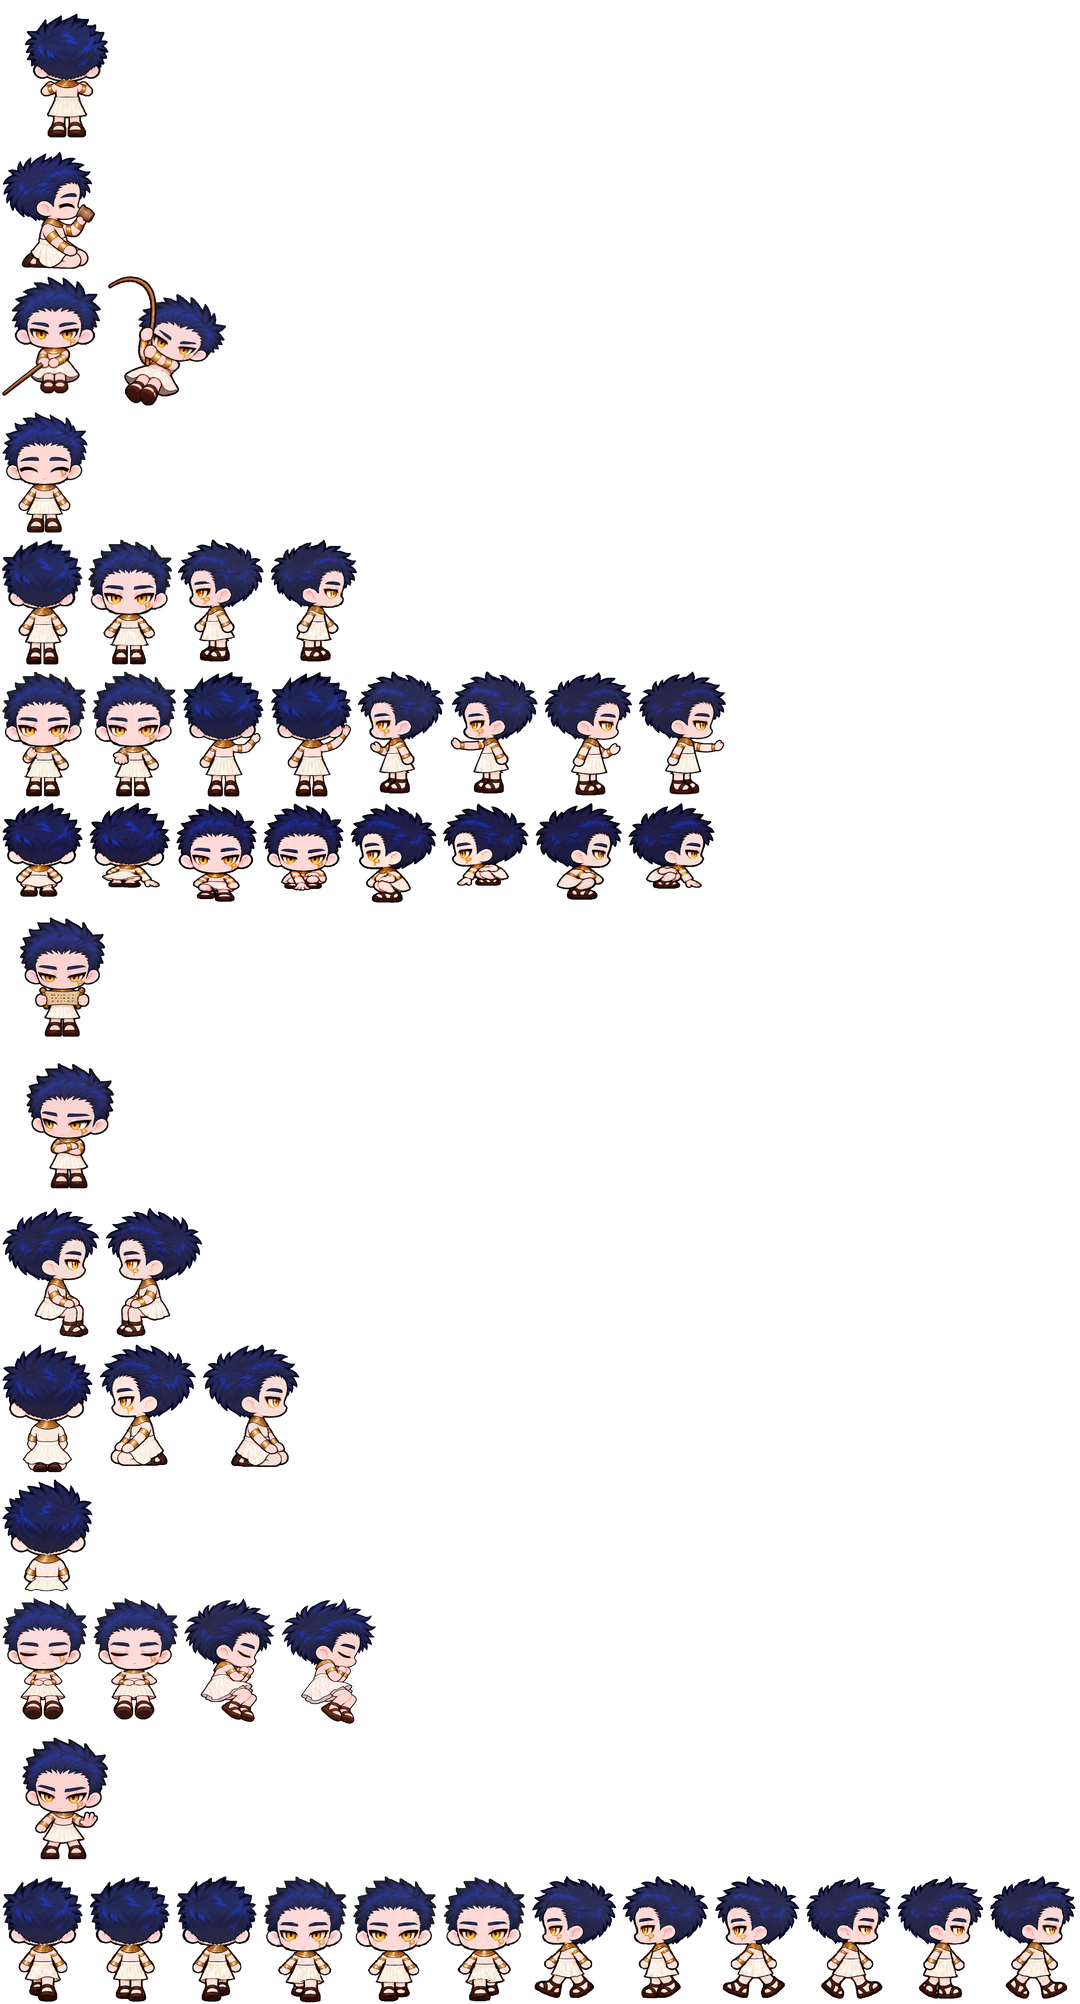
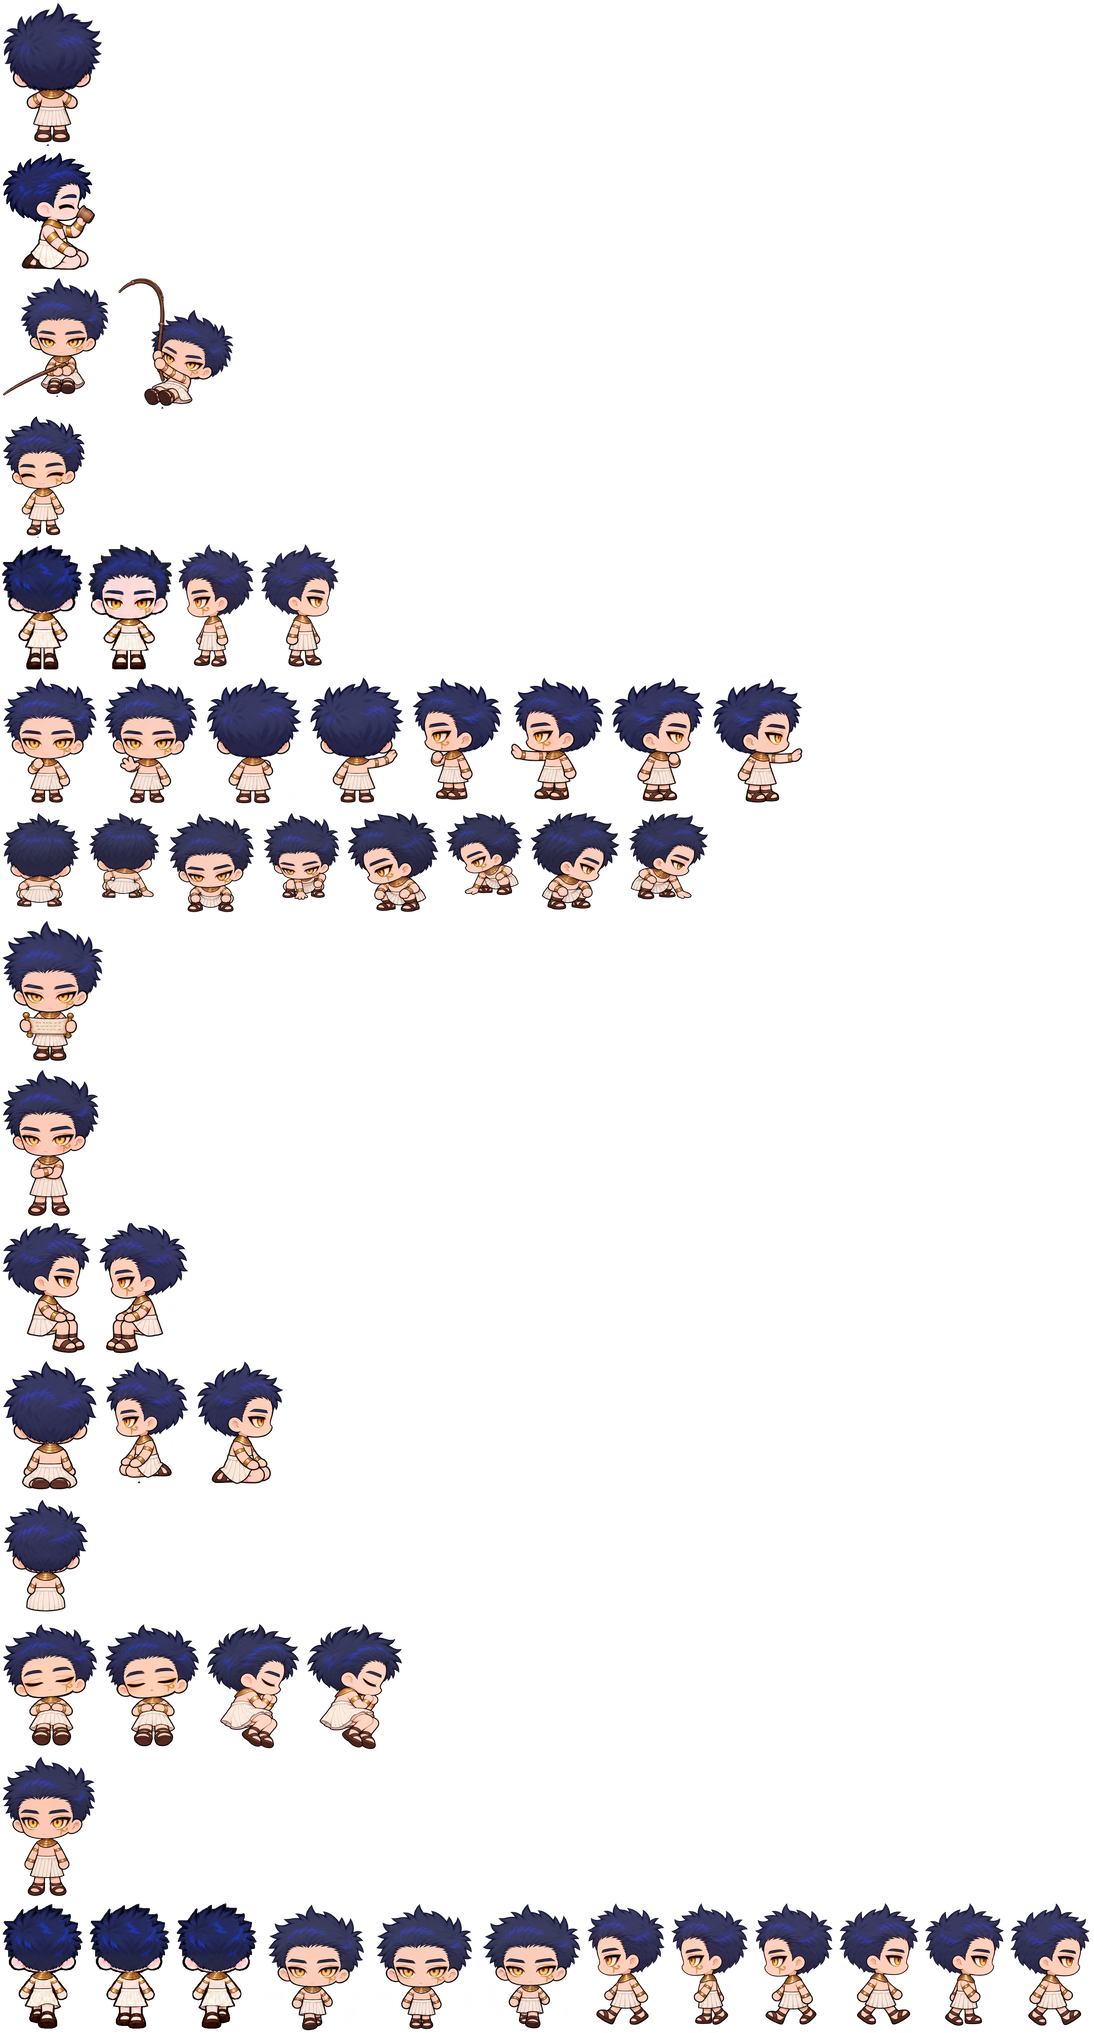
release 0.9.76 (main 7986d9f52912480c1d165be322ef2b92b747fa2f) · 호루스 스프라이트 적용, 3종 테스트 미실행

Changed region(s): [[0.0, 0.0, 1.0, 1.0]]

diff --git a/src/core/settings.js b/src/core/settings.js
@@ -2,7 +2,7 @@
 
 import { ctx } from './st.js';
 
-export const VERSION = '0.9.75';
+export const VERSION = '0.9.76';
 export const MODULE = 'sand_feather';
 export const PROMPT_KEY = 'sand_feather_world';
 export const UI_THEMES = [

diff --git a/README.md b/README.md
@@ -20,7 +20,7 @@
 
 세트·호루스 RP 채팅 옆에서 돌아가는 이집트 오픈월드 게임이다. SillyTavern 확장으로 동작한다.
 
-**현재 버전 0.9.75.** 버전별 변경 내역은 [CHANGELOG.md](CHANGELOG.md)에 있다.
+**현재 버전 0.9.76.** 버전별 변경 내역은 [CHANGELOG.md](CHANGELOG.md)에 있다.
 
 **설치는 `release` 브랜치로 한다.** SillyTavern 확장 설치에서 주소 `https://github.com/yigasda/SandAndFeather`, 브랜치 `release`. main은 그림 작업 기록(1 GB 넘음)까지 들어 있어서, main으로 깔면 SillyTavern이 켤 때마다 자동 업데이트로 그걸 다 받느라 느려진다. release는 게임이 쓰는 파일만(약 100 MB).
 
